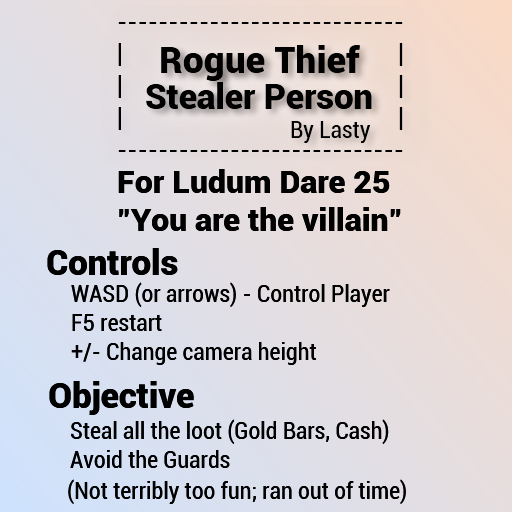
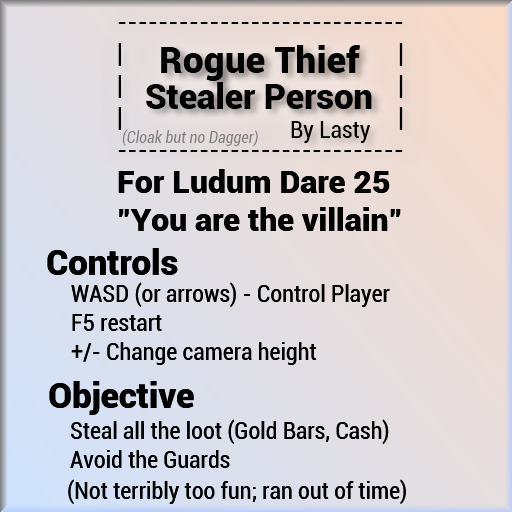
Added F1 to bring help box up again.  Added a tagline and bevel to title box.

Changed region(s): [[0.0, 0.0, 1.0, 1.0], [0.2188, 0.25, 0.5, 0.2812]]

diff --git a/game.cpp b/game.cpp
@@ -1013,7 +1013,7 @@ void Game::Update(float dt)
 
 void Game::Key(SDL_Keycode key, bool keydown)
 {
-	show_title = false;
+	if (keydown) show_title = false;
 
 	if (key == SDLK_w or key == SDLK_UP)
 	{
@@ -1048,6 +1048,11 @@ void Game::Key(SDL_Keycode key, bool keydown)
 	if (key == SDLK_ESCAPE)
 	{
 		running = false;
+	}
+
+	if (keydown and key == SDLK_F1)
+	{
+		show_title = true;
 	}
 
 	if (keydown and ((key == SDLK_F5) or ((level_won or level_lost) and (key == SDLK_SPACE))))
